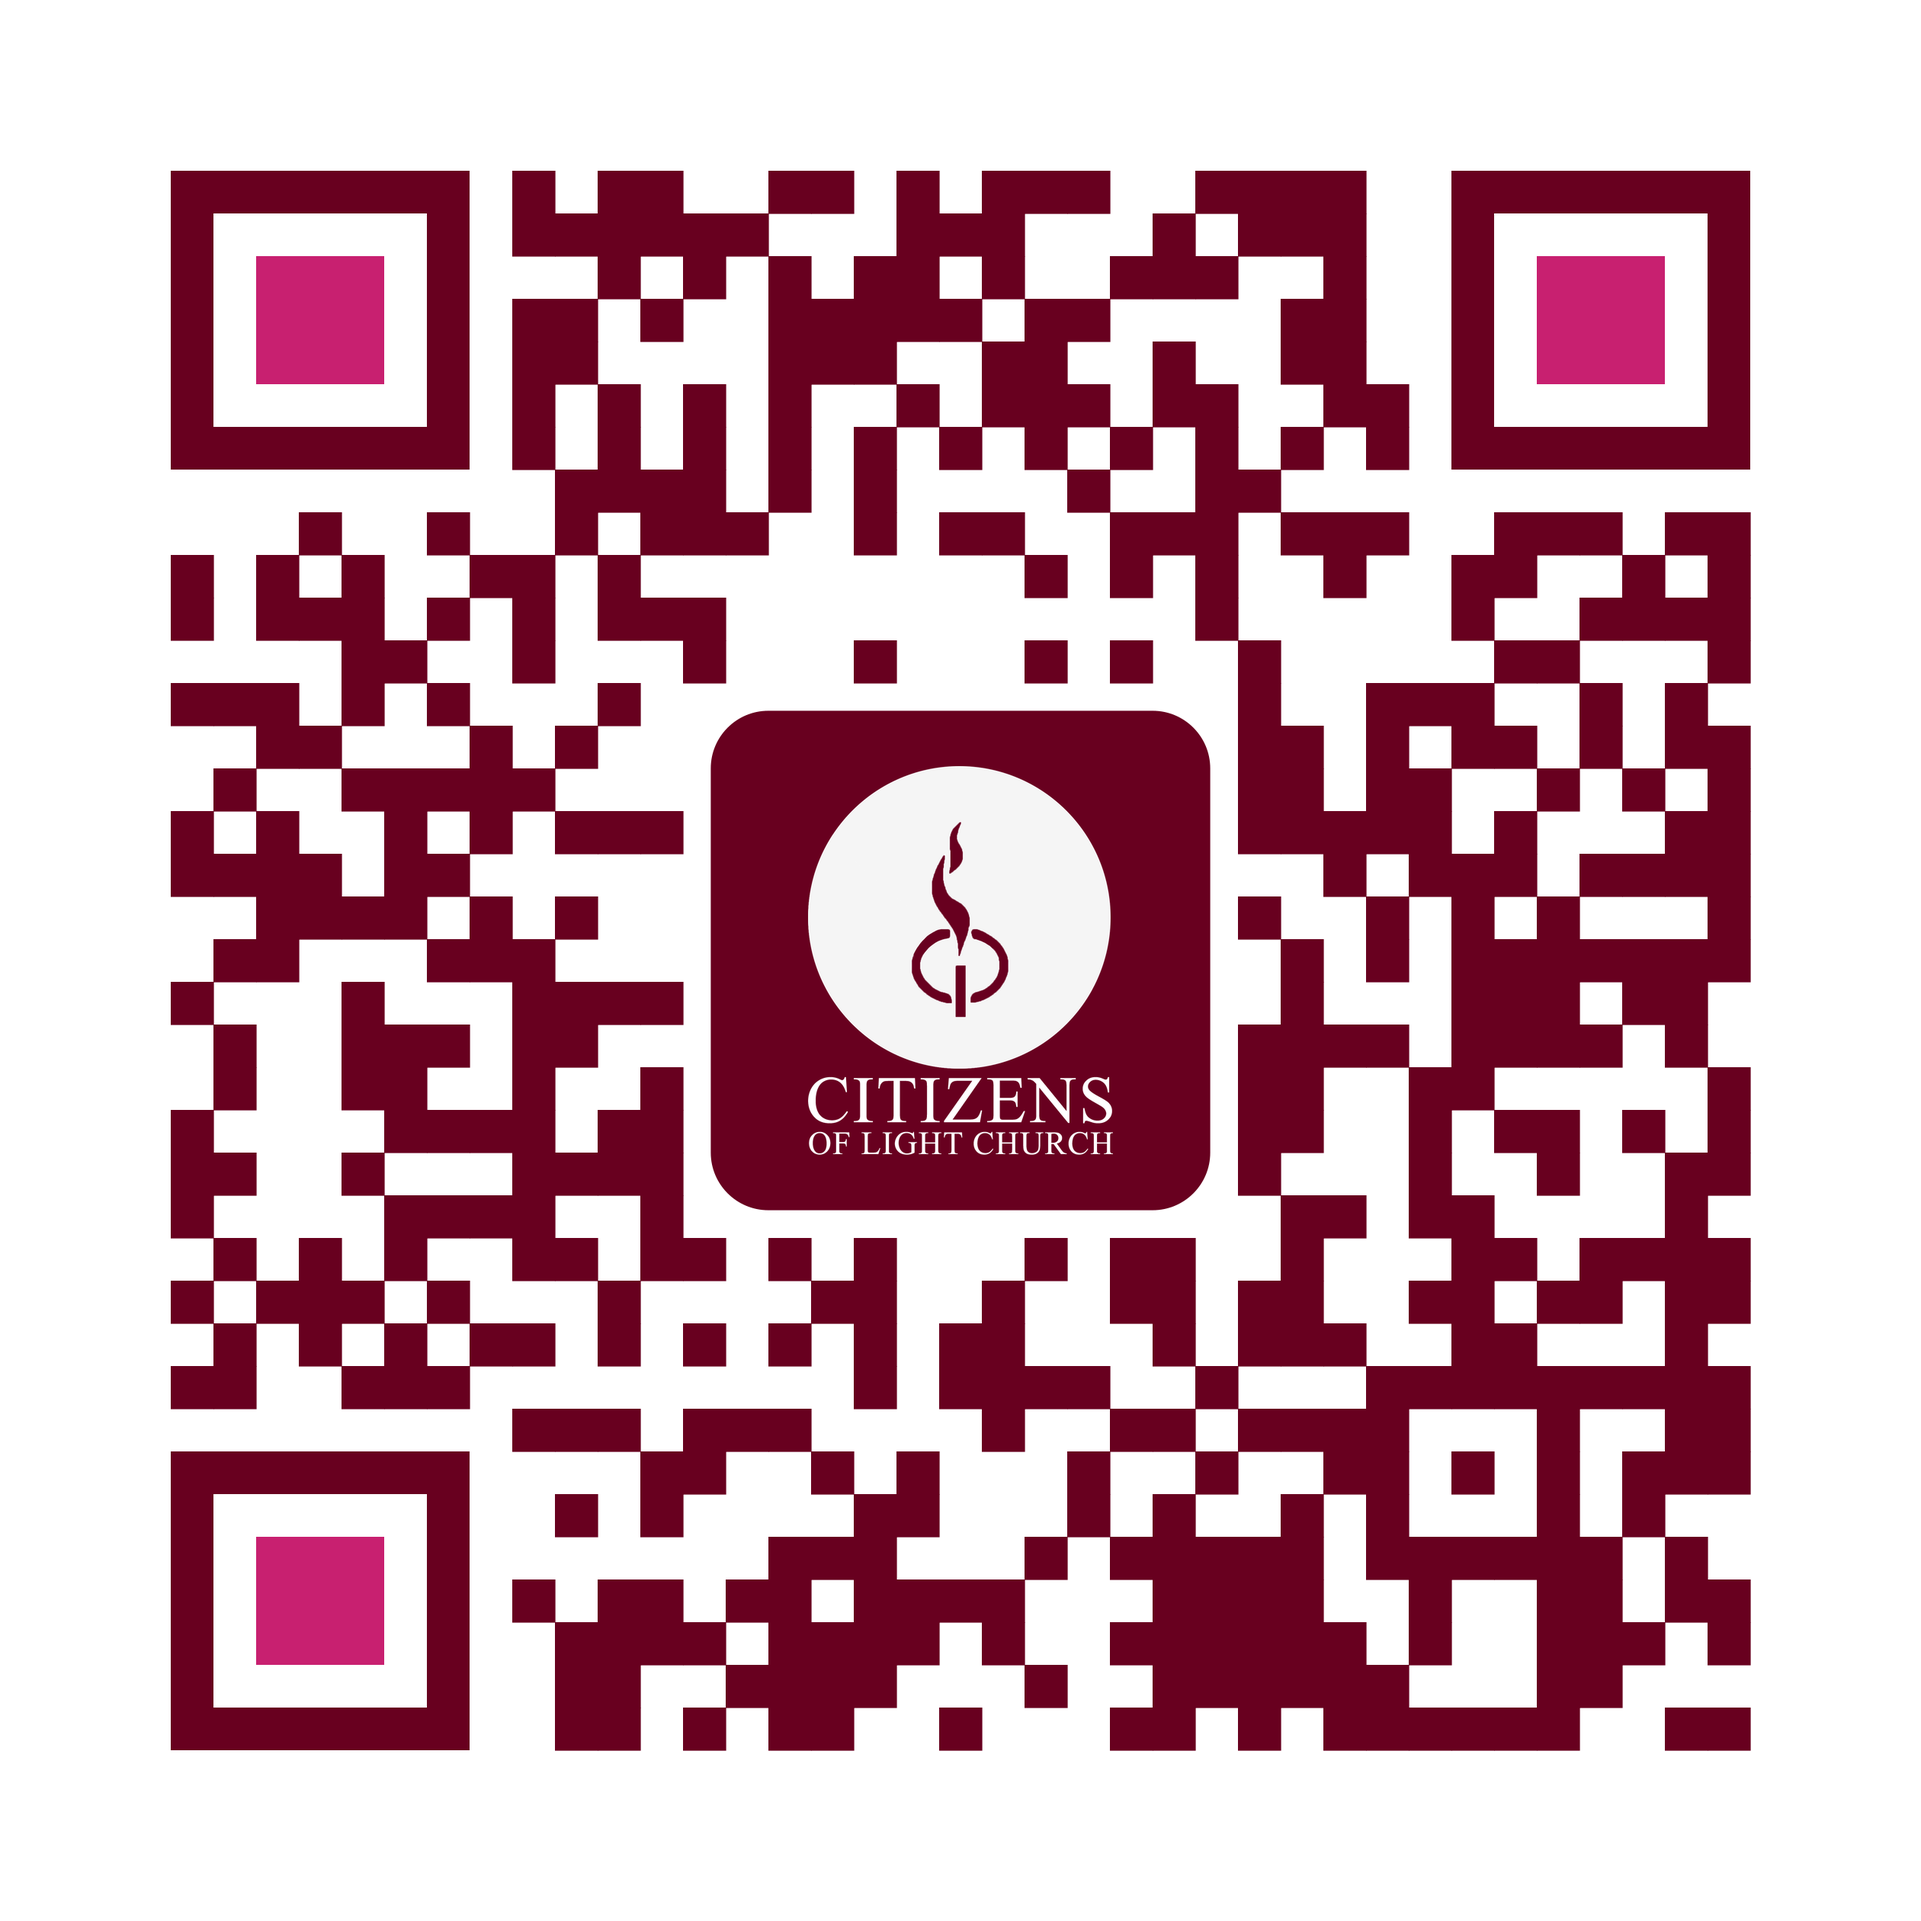
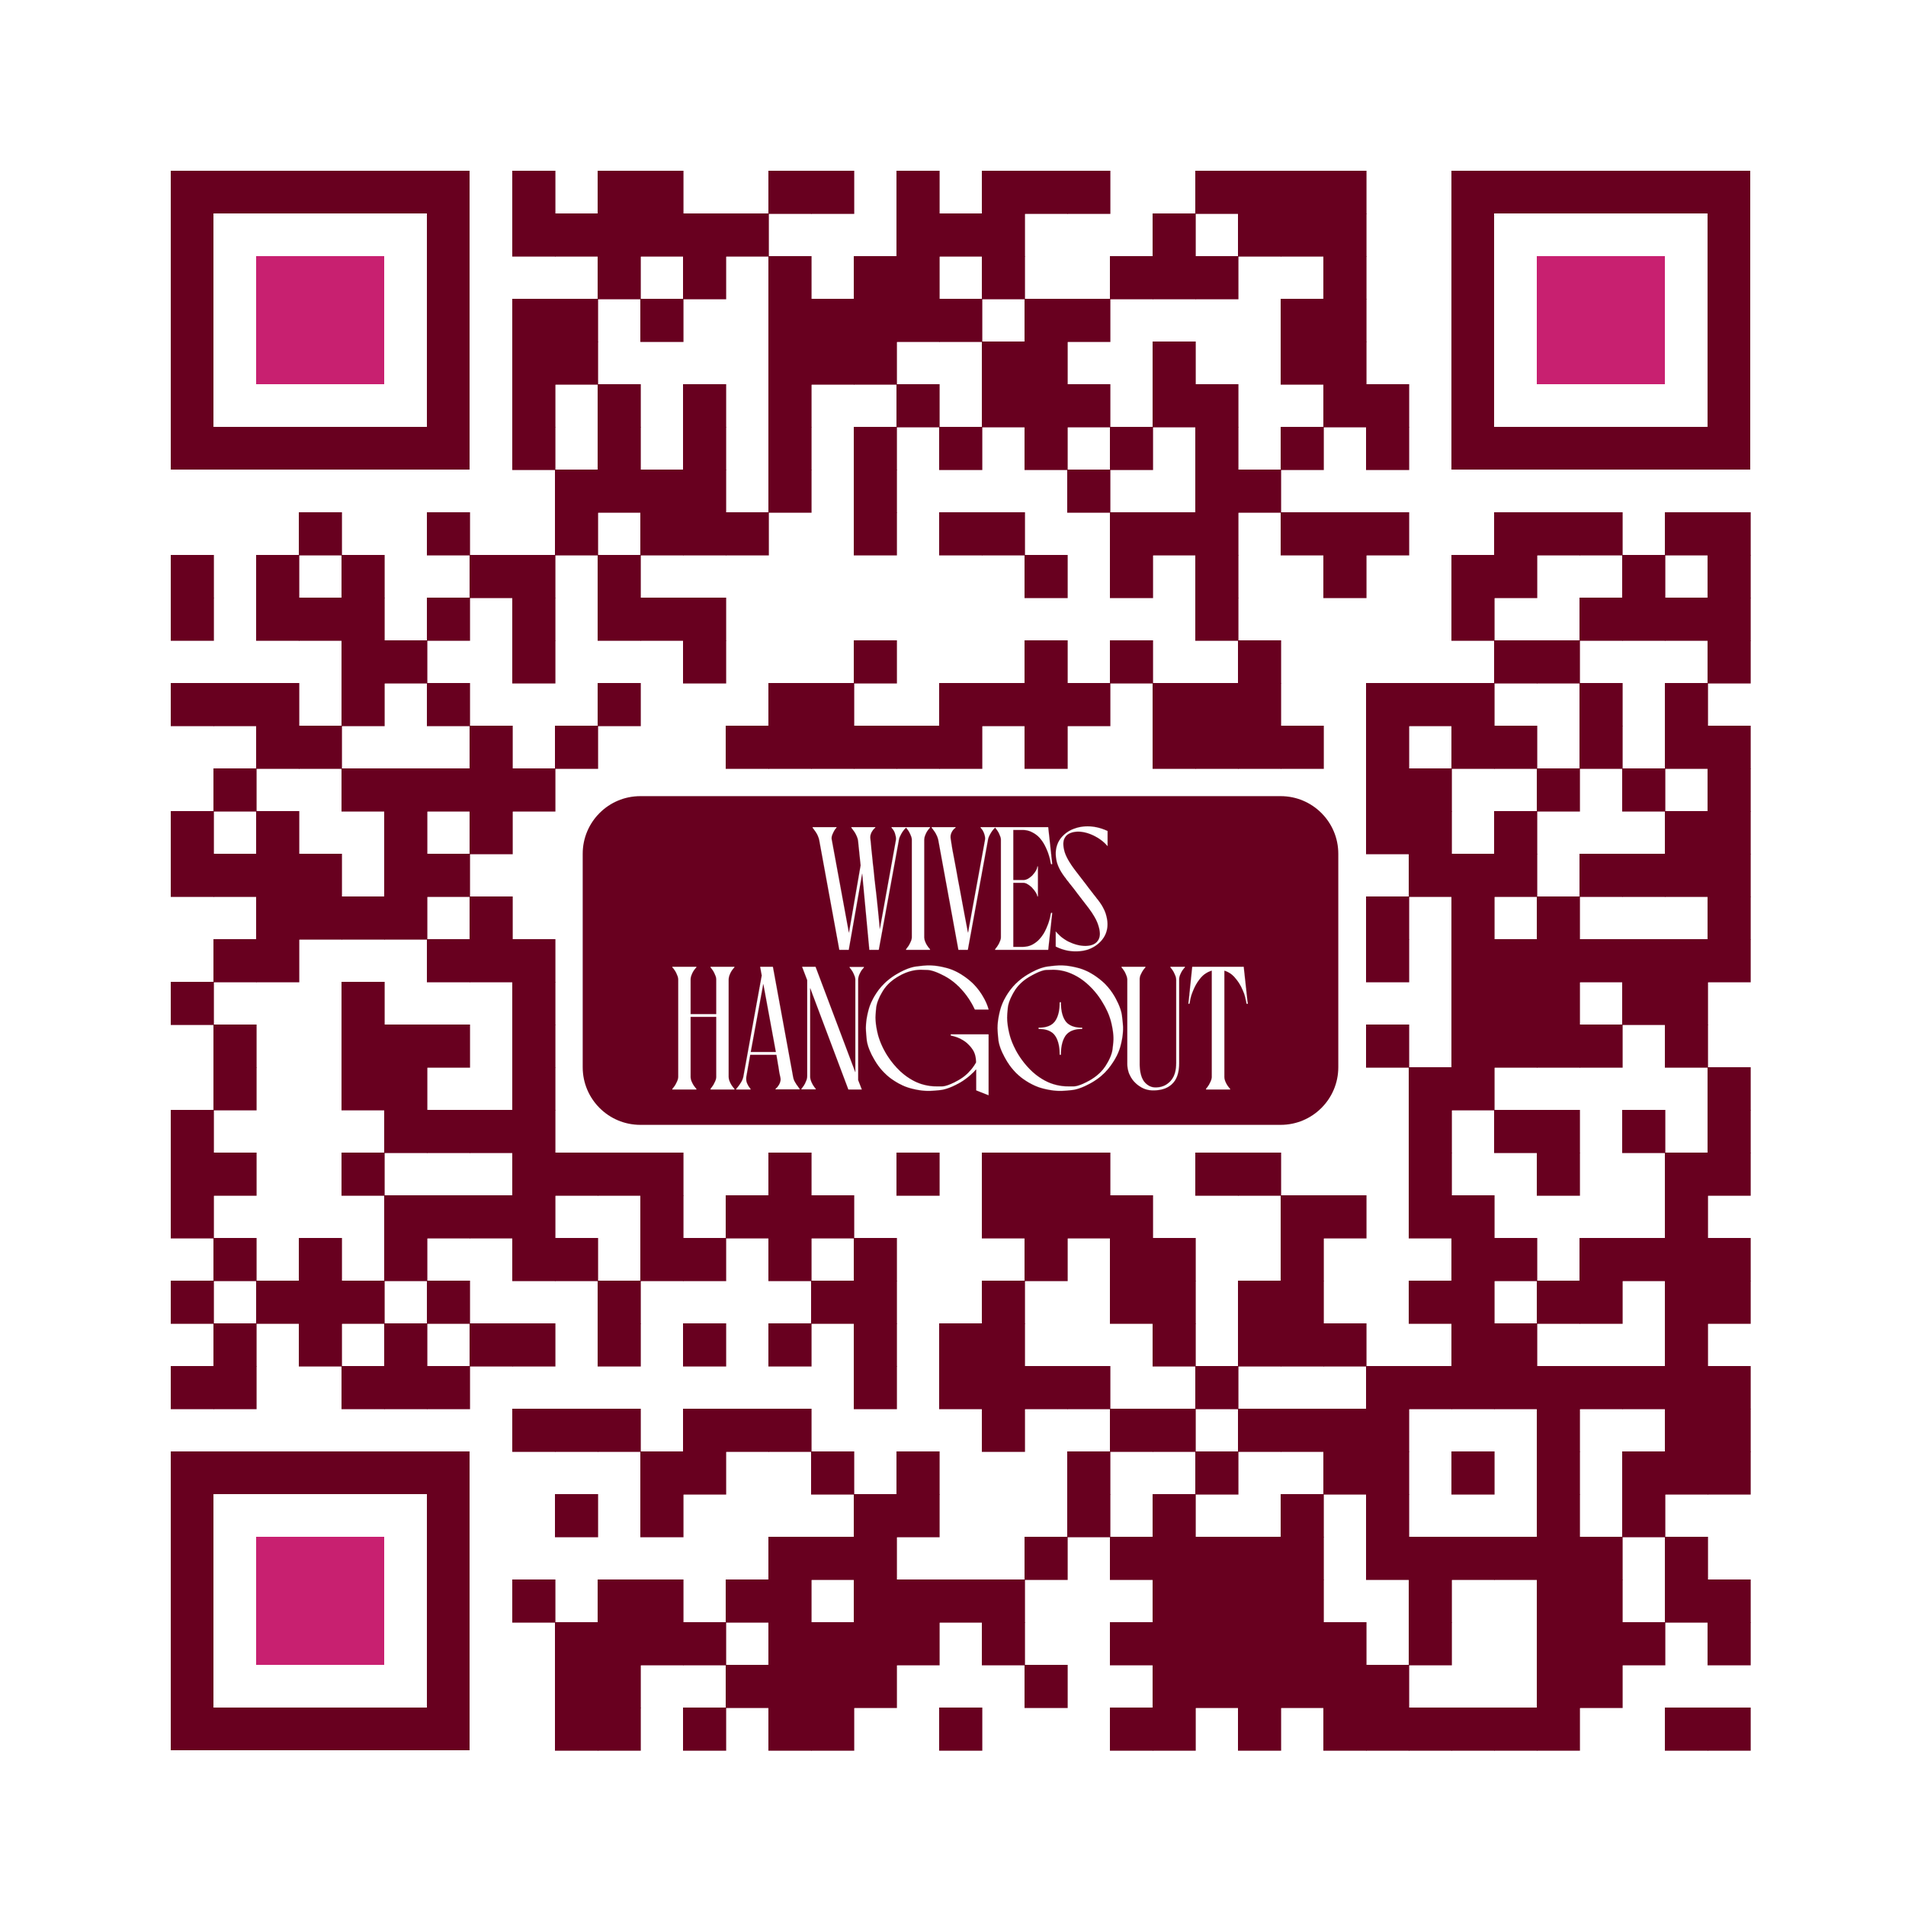
feat: QR centre shows the WIVES HANGOUT lettering (builder request); plate follows the image's proportions

Changed region(s): [[0.2786, 0.3405, 0.7119, 0.65]]

diff --git a/docs/DESIGN.md b/docs/DESIGN.md
@@ -66,7 +66,7 @@ Mobile-first at 360px. Hero full-bleed (photo max 640px, masked edges on wide sc
 - `assets/title.{webp,png}` (640px), `assets/hero-{720,1280}.{webp,jpg}` (photo crop between the band and the date text), `assets/clc-logo-{white,black}.{webp,png}`, `favicon.png`
 - `assets/email-title.png` (email header, 480px for 240px display)
 - `og.jpg`: `python3 scripts/make-og.py "brand/wives hangout - flyer.png"`
-- `docs/launch/wives-hangout-qr.png`: `scripts/make-qr.mjs` with `brand/clc-logo-white.png`
+- `docs/launch/wives-hangout-qr.png`: `scripts/make-qr.mjs` with `brand/wives hangout - text.png` (title lettering on a burgundy plate; builder request)
 - `brand/`: source artwork only, never loaded by the page (excluded from deploys by `.vercelignore`)
 
 ## Email
